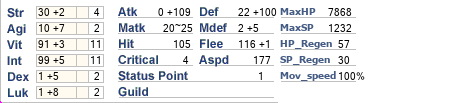
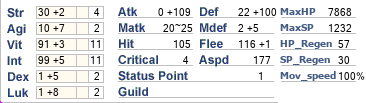
Refresh image added

diff --git a/pyflask/app/templates/calculator_frame.html b/pyflask/app/templates/calculator_frame.html
@@ -9,10 +9,14 @@
     <script src="static/js/selection_rules.js"></script>
     <script>
         function forceSubmit(){
-             document.getElementById("submit").click()
+             document.getElementById("submit").click();
         }
 
-
+        function forceRender(){
+            var timestamp = new Date().getTime();
+            var src = "static/assets/custom.png?t=" + timestamp
+            return src;
+        }
     </script>
 </head>
 
@@ -178,86 +182,92 @@
                                 </tbody>
                             </table>
                         </td>
-                        <td class="complex-c3">
-                            <table class="c3-list">
-                                <tbody>
-                                <tr class="c3-item">
-                                    <td class="c3-line-left">Max HP</td>
-                                    <td class="c3-line-right"><b>{{player_info['complex_info'].max_hp}}</b></td>
-                                </tr>
-                                <tr class="c3-item">
-                                    <td class="c3-line-left">Max SP</td>
-                                    <td class="c3-line-right"><b>{{player_info['complex_info'].max_sp}}</b></td>
-                                </tr>
-                                <tr class="c3-item">
-                                    <td class="c3-line-left">HP Regen</td>
-                                    <td class="c3-line-right"><b>{{player_info['complex_info'].hp_regen}}</b></td>
-                                </tr>
-                                <tr class="c3-item">
-                                    <td class="c3-line-left">SP Regen</td>
-                                    <td class="c3-line-right"><b>{{player_info['complex_info'].sp_regen}}</b></td>
-                                </tr>
-                                <tr class="c3-item">
-                                    <td class="c3-line-left">Mov speed</td>
-                                    <td class="c3-line-right"><b>140%</b></td>
-                                </tr>
-                                </tbody>
-                            </table>
+
+                        <td class="complex-image" style="display:block; margin-top: 20px;">
+                            <img id="target_image" src=a" onerror="this.src=forceRender()"
+                                 width="100%" height="100%">
                         </td>
-                        <td class="complex-c1">
-                            <table class="c1-list">
-                                <tbody>
-                                <tr class="c1-item">
-                                    <td class="c1-line-left">ATK</td>
-                                    <td class="c1-line-right"><b>30+0</b></td>
-                                </tr>
-                                <tr class="c1-item">
-                                    <td class="c1-line-left">MATK</td>
-                                    <td class="c1-line-right"><b>40~80</b></td>
-                                </tr>
-                                <tr class="c1-item">
-                                    <td class="c1-line-left">Hit</td>
-                                    <td class="c1-line-right"><b>{{player_info['complex_info'].hit}}</b></td>
-                                </tr>
-                                <tr class="c1-item">
-                                    <td class="c1-line-left">Crit</td>
-                                    <td class="c1-line-right"><b>{{player_info['complex_info'].critical}}</b></td>
-                                </tr>
-                                <tr class="c1-item">
-                                    <td class="c1-line-left">CritShi</td>
-                                    <td class="c1-line-right"><b>{{player_info['complex_info'].critical_shield}}</b>
-                                    </td>
-                                </tr>
-                                </tbody>
-                            </table>
-                        </td>
-                        <td class="complex-c2">
-                            <table class="c2-list">
-                                <tbody>
-                                <tr class="c2-item">
-                                    <td class="c2-line-left">DEF</td>
-                                    <td class="c2-line-right"><b>10+5</b></td>
-                                </tr>
-                                <tr class="c2-item">
-                                    <td class="c2-line-left">MDEF</td>
-                                    <td class="c2-line-right"><b>2+15</b></td>
-                                </tr>
-                                <tr class="c2-item">
-                                    <td class="c2-line-left">Flee</td>
-                                    <td class="c2-line-right"><b>{{player_info['complex_info'].flee}}</b></td>
-                                </tr>
-                                <tr class="c2-item">
-                                    <td class="c2-line-left">ASPD</td>
-                                    <td class="c2-line-right"><b>168</b></td>
-                                </tr>
-                                <tr class="c2-item">
-                                    <td class="c2-line-left">Pdodge</td>
-                                    <td class="c2-line-right"><b>{{player_info['complex_info'].perfect_dodge}}</b>
-                                    </td>
-                                </tr>
-                                </tbody>
-                            </table>
-                        </td>
+
+<!--                        <td class="complex-c3">-->
+<!--                            <table class="c3-list">-->
+<!--                                <tbody>-->
+<!--                                <tr class="c3-item">-->
+<!--                                    <td class="c3-line-left">Max HP</td>-->
+<!--                                    <td class="c3-line-right"><b>{{player_info['complex_info'].max_hp}}</b></td>-->
+<!--                                </tr>-->
+<!--                                <tr class="c3-item">-->
+<!--                                    <td class="c3-line-left">Max SP</td>-->
+<!--                                    <td class="c3-line-right"><b>{{player_info['complex_info'].max_sp}}</b></td>-->
+<!--                                </tr>-->
+<!--                                <tr class="c3-item">-->
+<!--                                    <td class="c3-line-left">HP Regen</td>-->
+<!--                                    <td class="c3-line-right"><b>{{player_info['complex_info'].hp_regen}}</b></td>-->
+<!--                                </tr>-->
+<!--                                <tr class="c3-item">-->
+<!--                                    <td class="c3-line-left">SP Regen</td>-->
+<!--                                    <td class="c3-line-right"><b>{{player_info['complex_info'].sp_regen}}</b></td>-->
+<!--                                </tr>-->
+<!--                                <tr class="c3-item">-->
+<!--                                    <td class="c3-line-left">Mov speed</td>-->
+<!--                                    <td class="c3-line-right"><b>140%</b></td>-->
+<!--                                </tr>-->
+<!--                                </tbody>-->
+<!--                            </table>-->
+<!--                        </td>-->
+<!--                        <td class="complex-c1">-->
+<!--                            <table class="c1-list">-->
+<!--                                <tbody>-->
+<!--                                <tr class="c1-item">-->
+<!--                                    <td class="c1-line-left">ATK</td>-->
+<!--                                    <td class="c1-line-right"><b>30+0</b></td>-->
+<!--                                </tr>-->
+<!--                                <tr class="c1-item">-->
+<!--                                    <td class="c1-line-left">MATK</td>-->
+<!--                                    <td class="c1-line-right"><b>40~80</b></td>-->
+<!--                                </tr>-->
+<!--                                <tr class="c1-item">-->
+<!--                                    <td class="c1-line-left">Hit</td>-->
+<!--                                    <td class="c1-line-right"><b>{{player_info['complex_info'].hit}}</b></td>-->
+<!--                                </tr>-->
+<!--                                <tr class="c1-item">-->
+<!--                                    <td class="c1-line-left">Crit</td>-->
+<!--                                    <td class="c1-line-right"><b>{{player_info['complex_info'].critical}}</b></td>-->
+<!--                                </tr>-->
+<!--                                <tr class="c1-item">-->
+<!--                                    <td class="c1-line-left">CritShi</td>-->
+<!--                                    <td class="c1-line-right"><b>{{player_info['complex_info'].critical_shield}}</b>-->
+<!--                                    </td>-->
+<!--                                </tr>-->
+<!--                                </tbody>-->
+<!--                            </table>-->
+<!--                        </td>-->
+<!--                        <td class="complex-c2">-->
+<!--                            <table class="c2-list">-->
+<!--                                <tbody>-->
+<!--                                <tr class="c2-item">-->
+<!--                                    <td class="c2-line-left">DEF</td>-->
+<!--                                    <td class="c2-line-right"><b>10+5</b></td>-->
+<!--                                </tr>-->
+<!--                                <tr class="c2-item">-->
+<!--                                    <td class="c2-line-left">MDEF</td>-->
+<!--                                    <td class="c2-line-right"><b>2+15</b></td>-->
+<!--                                </tr>-->
+<!--                                <tr class="c2-item">-->
+<!--                                    <td class="c2-line-left">Flee</td>-->
+<!--                                    <td class="c2-line-right"><b>{{player_info['complex_info'].flee}}</b></td>-->
+<!--                                </tr>-->
+<!--                                <tr class="c2-item">-->
+<!--                                    <td class="c2-line-left">ASPD</td>-->
+<!--                                    <td class="c2-line-right"><b>168</b></td>-->
+<!--                                </tr>-->
+<!--                                <tr class="c2-item">-->
+<!--                                    <td class="c2-line-left">Pdodge</td>-->
+<!--                                    <td class="c2-line-right"><b>{{player_info['complex_info'].perfect_dodge}}</b>-->
+<!--                                    </td>-->
+<!--                                </tr>-->
+<!--                                </tbody>-->
+<!--                            </table>-->
+<!--                        </td>-->
 
 
 

diff --git a/ragnarok/resources/interface/interface_generator.py b/ragnarok/resources/interface/interface_generator.py
@@ -7,8 +7,8 @@ import sys
 import os
 import math
 
-from main.exporter import jbl
-from model.build_model import PlayerBuild
+from ragnarok.main.exporter import jbl
+from ragnarok.model.build_model import PlayerBuild
 
 
 class InterfaceGenerator:
@@ -31,7 +31,8 @@ class InterfaceGenerator:
         build = p1.export_build()
 
         in_file = (os.path.abspath(os.path.join(os.path.dirname(__file__), 'blank_interface.png')))
-        out_file = (os.path.abspath(os.path.join(os.path.dirname(__file__), 'custom.png')))
+        out_file = (os.path.abspath(os.path.join(os.path.dirname(__file__), '..', '..', '..',
+                                                 'pyflask', 'app', 'static', 'assets', 'custom.png')))
         font_file = (os.path.abspath(os.path.join(os.path.dirname(__file__), 'Sans-serif.ttf')))
 
         font = ImageFont.truetype(font_file, 10)
@@ -86,12 +87,8 @@ class InterfaceGenerator:
         draw.text((x + 300, y + 32), "{}".format(build.hp_regen), "black", font=font)
         draw.text((x + 300, y + 48), "{}".format(build.sp_regen), "black", font=font)
         draw.text((x + 300, y + 64), "100%", "black", font=font)
-        img.show()
         img.save(out_file)
 
 
-# p1 = PlayerBuild(jbl, 99, 50, 'dancer', [30, 10, 91, 99, 1, 1])
-# build = p1.export_build()
-
-igen = InterfaceGenerator(PlayerBuild(jbl, 99, 50, 'dancer', [30, 10, 91, 99, 1, 1]))
+igen = InterfaceGenerator(PlayerBuild(jbl, 99, 50, 'crusader', [9, 1, 99, 1, 99, 1]))
 igen.generate_interface()

diff --git a/pyflask/app/controllers/default.py b/pyflask/app/controllers/default.py
@@ -13,6 +13,7 @@ from app.models.forms import LoginForm, RegisterForm, CalculatorForm, calc_dynam
 
 from ragnarok.model.statuspoints_evaluator import attribute_balance
 from ragnarok.model.build_model import PlayerBuild
+from ragnarok.resources.interface.interface_generator import InterfaceGenerator
 
 
 # cur_path = os.path.abspath(os.curdir)
@@ -137,9 +138,12 @@ def calcframe():
                          [int(pi['player_str']), int(pi['player_agi']), int(pi['player_vit']),
                           int(pi['player_int']), int(pi['player_dex']), int(pi['player_luk'])])
         pi['complex_info'] = p1.export_build()
+        igen = InterfaceGenerator(p1)
+        igen.generate_interface()
     return render_template('calculator_frame.html',
                            form=form,
-                           player_info=pi)
+                           player_info=pi,
+                           image_url='static/assets/custom.png')
 
 
 @app.route("/loginframe")
